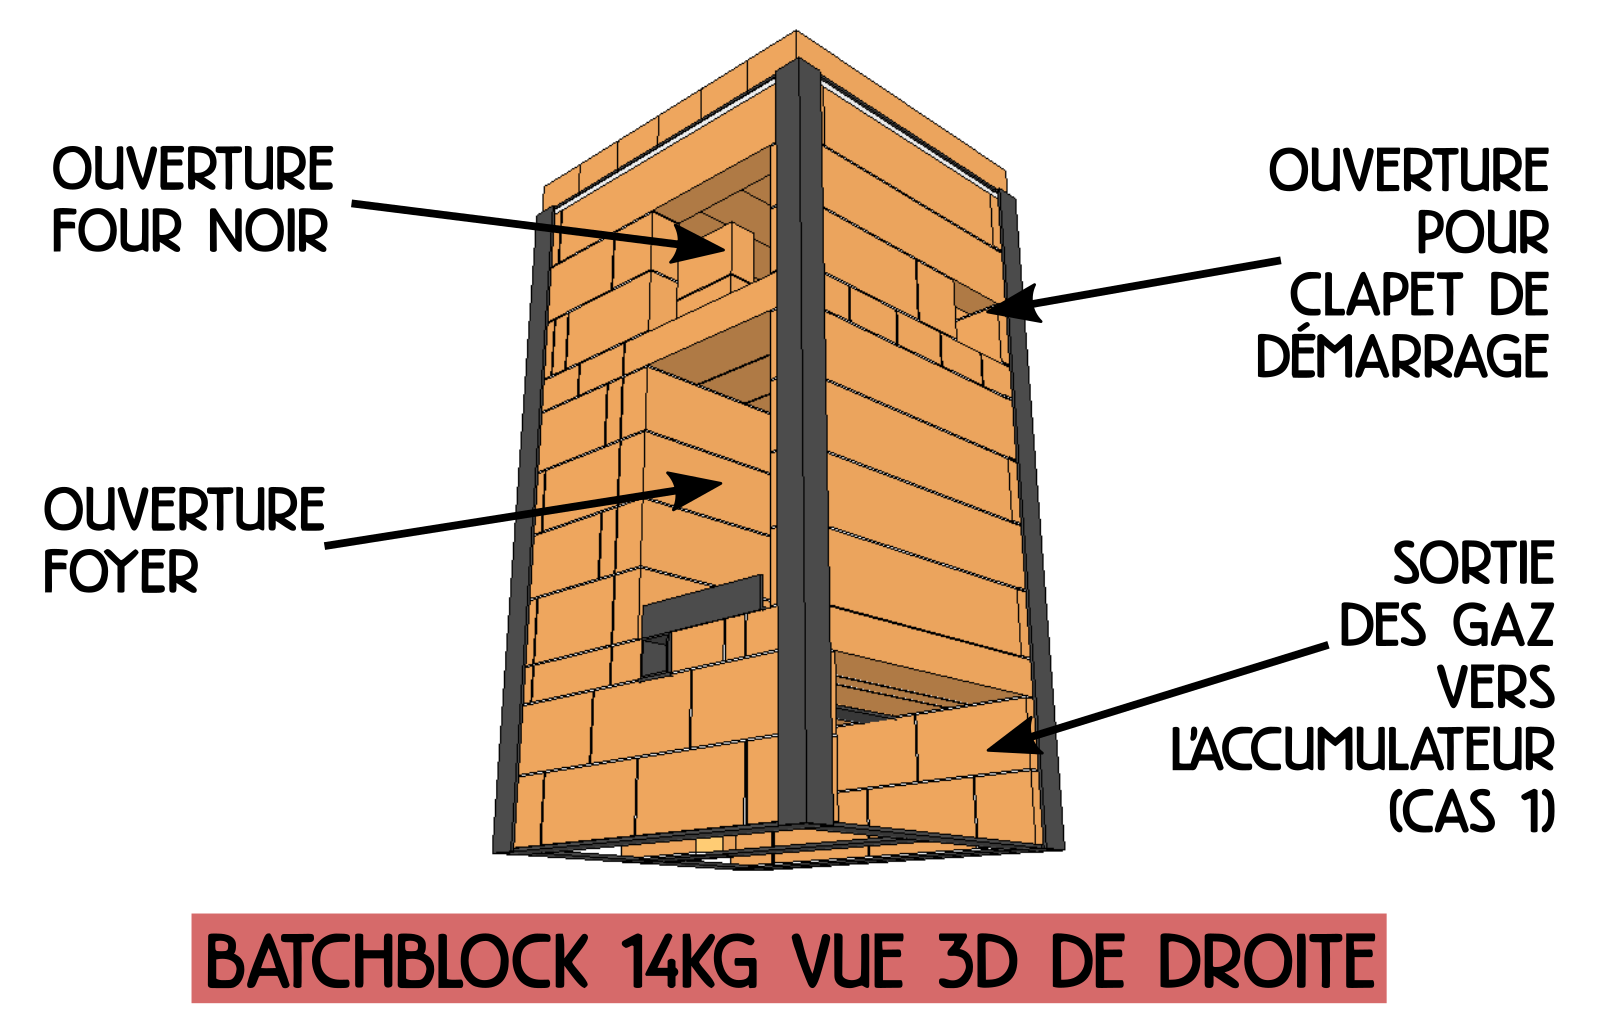
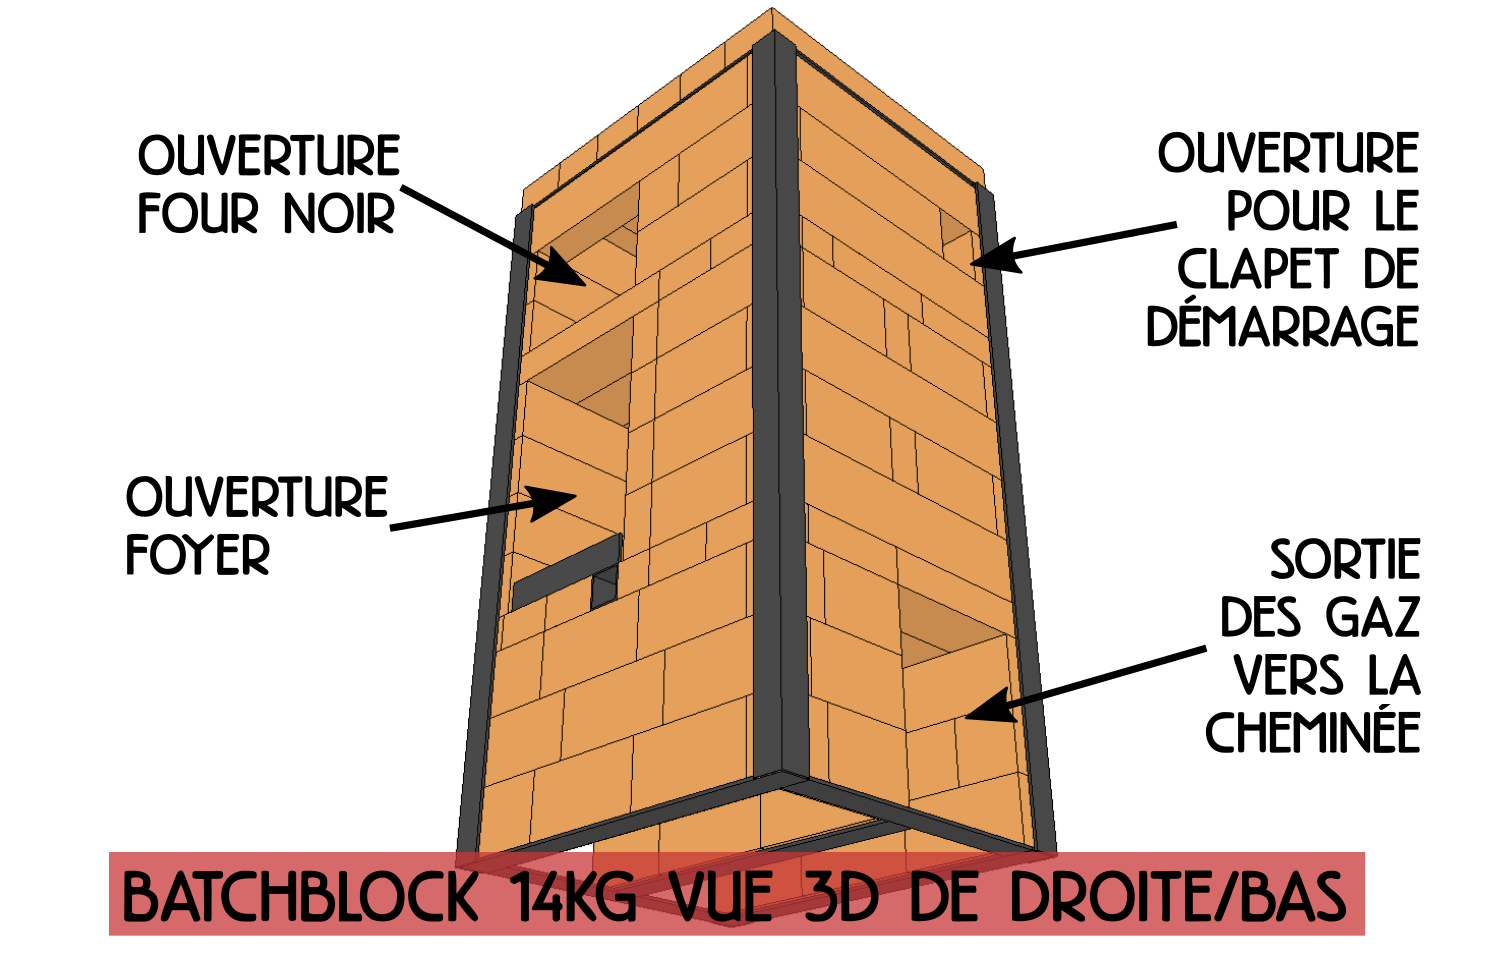
modifs_081218

Changed region(s): [[0.0309, 0.0, 0.9873, 1.0]]

diff --git a/batchrocket_cloche.html b/batchrocket_cloche.html
@@ -274,14 +274,14 @@
           <section id="regles_cloches">
             <h2 class="title">Les règles de construction des cloches</h2>
 
-            <p>En pratique, quatres règles de base permettent de construire des cloches :
+            <p>En pratique, quatres règles de base permettent de construire des cloches. Ces règles sont valables pour les Batchrockets comme pour les Batchblocks :
               <ul>
-                <li>À chaque taille de Batchrocket correspond une certaine <b>surface de cloche</b> qu'il faut respecter pour que les gaz sortent à la bonne température.
-                  <p>C'est la SIA du paragraphe précédent. Pour un Batchrocket donné, plus la SIA est importante, plus les gaz vont sortir froids. Mieux vaut sortir trop chaud que trop froid !</p>
+                <li>À chaque taille de Batchrocket/Batchblock correspond une certaine <b>surface de cloche</b> qu'il faut respecter pour que les gaz sortent à la bonne température.
+                  <p>C'est la SIA du paragraphe précédent. Pour un Batchrocket/Batchblock donné, plus la SIA est importante, plus les gaz vont sortir froids. Mieux vaut sortir trop chaud que trop froid !</p>
                 </li>
-                <li>La première surface que voient les gaz en sortant de la cheminée interne (quasi-systématiquement la face interne du sommet du poêle) doit mesurer <b>au moins 5 fois la section de la cheminée interne</b>                  et doit être <b>au moins 30 cm au dessus de la sortie de la cheminée interne</b>.
-                  <p>Par exemple, pour un batchrocket dont la cheminée interne mesure 200 mm de diamètre, la section vaut environ 31400 mm2 donc la surface du sommet du poêle, coté intérieur, doit faire au
-                    moins 5 x 31400 mm2 = 157000 mm2. Cela correspond à un carré d'environ 400 mm x 400 mm.</p>
+                <li>La première surface que voient les gaz en sortant du turbuleur (quasi-systématiquement la face interne du sommet du poêle) doit mesurer <b>au moins 5 fois la section de la cheminée interne</b>                  et doit être <b>au moins 30 cm au dessus de la sortie de la cheminée interne</b>.
+                  <p>Par exemple, pour un Batchrocket/Batchblock dont le turbuleur mesure 200 mm de côté, la section du système vaut 31400 mm2 donc la surface du sommet du poêle, coté intérieur, doit faire
+                    au moins 5 x 31400 mm2 = 157000 mm2. Cela correspond à un carré d'environ 400 mm x 400 mm.</p>
                 </li>
                 <li>Quand les gaz vont tout droit, la section de la conduite doit être supérieure ou égale à la section du système.
                   <p>La seule exception se produit dans les parties du poêle où les gaz sont dans une conduite verticale ascendante. Dans ce cas la section de la conduite peut être inférieure à la section
@@ -303,7 +303,7 @@
             <p>Une cloche est un <em>accumulateur</em> de chaleur. Son objectif est d'extraire la chaleur des fumées et de la restituer doucement par la suite.</p>
             <p>Pour ceux qui ont déjà construit leur poêle et qui veulent connaitre son rendement, voici un graphique faisant le lien entre la température moyenne des gaz dans la cheminée d'évacuation et
               le rendement d'extraction de l'accumulateur.</p>
-            <p>Attention, ce graphique n'est valable que pour une flambée vive sur un Batchrocket ! Pour un poêle en fonte par exemple, les rendements doivent être sous-estimés.</p>
+            <p>Attention, ce graphique n'est valable que pour une flambée vive sur un Batchrocket/Batchblock ! Pour un poêle en fonte par exemple, les rendements doivent être sous-estimés.</p>
             <p>Les hypothèses de calcul de ce graphique sont les suivantes :</p>
             <ul>
               <li>Qualité de la combustion : 500 ppm de CO moyen</li>
@@ -320,7 +320,7 @@
             </div>
             <p class="subtitle">En bas, la température moyenne des fumées dans la cheminée. En vertical, le rendement d'extraction correspondant. </br>Source : <a class="ref">UZUME</a></p>
 
-            <p>Par exemple, un poêle Batchrocket dont les gaz sortent à 150°C en moyenne a un rendement d'extraction de 89%. </p>
+            <p>Par exemple, un poêle Batchrocket/Batchblock dont les gaz sortent à 150°C en moyenne a un rendement d'extraction de 89%. </p>
             <p>Le rendement global du poêle est donné par la formule : </p>
             <div class="row">
               <div class="lead col-sm-10 col-sm-offset-1" style="background:#a1bf6b">
@@ -328,7 +328,7 @@
               </div>
             </div>
 
-            <p>Le rendement de combustion d'un Batchrocket sur une flambée vive est de 98%. Dans notre exemple, le rendement total est donc de 89 x 0,98 = 87%.</p>
+            <p>Le rendement de combustion d'un Batchrocket/Batchblock sur une flambée vive est de 98%. Dans notre exemple, le rendement total est donc de 89 x 0,98 = 87%.</p>
           </section>
 
 

diff --git a/index.html b/index.html
@@ -138,6 +138,7 @@
                   <p class="subtitle">Une cuisinière de masse en cours de test.</p>
                 </li>
                 <li class="col-sm-6">
+                  <p>Les vues 3D du Batchblock ont été modifiées pour prendre en compte les modifications : <a href="./batchblock.html#vues_3D">batchblock.html#vues_3D</a>.</p>
                   <p>L'article sur le <a href="./B28.html">B28 V2</a> est complet !</p>
                   <p>Le manuel de construction du <a href="./B14_semi_masse.html">B14 V4 semi-masse</a> est en ligne ! Attention, la plancha est expérimentale !</p>
                   <p>Un article sur le <a href="./B28.html">B28 V2</a> est en cours d'édition !</p>
